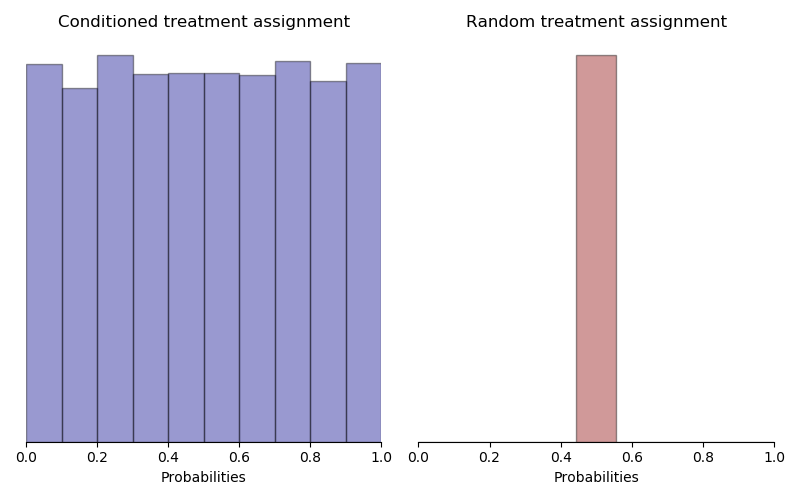
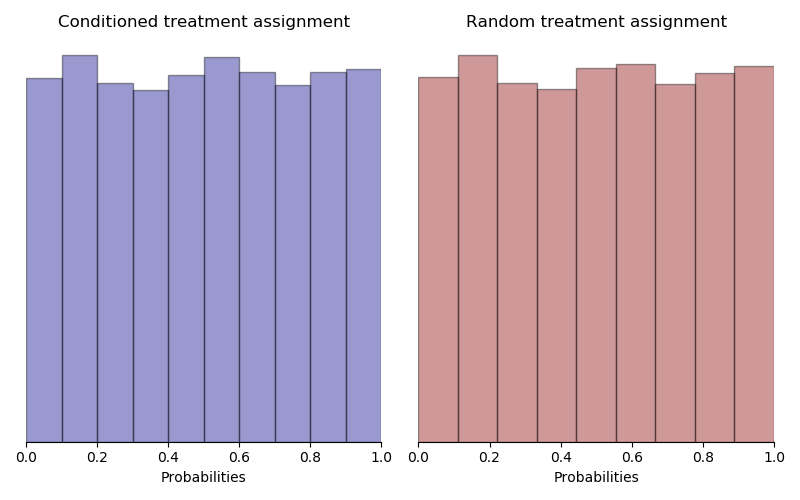
Adding get and set fct.s to UserInterface

diff --git a/src/SimulateData.py b/src/SimulateData.py
@@ -26,7 +26,12 @@ class SimData:
         self.N = N # Natural, number of observations
         self.k = k # Natural, number of covariates
         
-
+        # initilizing weight vector for treatment assignment 
+        # using random weights from U[0,1]
+        self.weights_treatment_assignment = np.random.uniform(0,1,self.k)
+        # doing the same for relation of X and y
+        self.weights_covariates_to_outputs = np.random.uniform(0,1,self.k)
+        
     def generate_outcome_variable(self, binary):
         """
         Model-wise Y
@@ -101,12 +106,10 @@ class SimData:
         self.X = X
 
         if nonlinear:
-#            b = 1/np.arange(1,self.k+1) # diminishing weight vector
-            b = np.random.uniform(0,1,self.k) # random weight vector drawn from U[0,1]
-            self.g_0_X = np.cos(np.dot(X,b))**2  # overwrite with nonlinear covariates
+            # transforming by cos(X*weights)²
+            self.g_0_X = np.cos(np.dot(X,self.weights_covariates_to_outputs))**2  
         else:
             # If not nonlinear, then g_0(X) is just the identity 
-            
             self.g_0_X = np.dot(X,np.repeat(1/self.k,self.k))  # dim(X) = n * k -> need to vector multiply with vector shaped [k,1]
 
         return None
@@ -120,35 +123,31 @@ class SimData:
         –random (randomized control trial) with possible imbalanced assignment (e.g.  75% treatedand 25% control.
 
         :return:
-        """
-
-        #weight_vector = 1/np.arange(1,self.k+1)             # diminishing weights
-        weight_vector_alt = np.random.uniform(0,1,self.k)   # random weights from U[0,1]
-        
+        """       
         # random treatment assignment
         if random:
             m_0 = assignment_prob  # probability
             
             # propensity scores for each observation 
-            self.propensity_score = np.repeat(m_0,self.N)
+            self.propensity_scores = np.repeat(m_0,self.N)
         else:
-            a = np.dot(self.X, weight_vector_alt)    # X*weights -> a (Nx1 vector)
+            a = np.dot(self.X, self.weights_treatment_assignment)    # X*weights -> a (Nx1 vector)
 
             # Using empirical mean, sd
             a_mean = np.mean(a)
             a_sigma = np.std(a)
             z = (a - a_mean) / a_sigma          # normalizing 'a' vector
-            
+
             # using normalized vector z to get probabilities from normal pdf
             # to later assign treatment with binomial in D
             m_0 = stats.norm.cdf(z)
             
             # propensity scores for each observation 
-            self.propensity_score = m_0
+            self.propensity_scores = m_0
 
         # creating array out of binomial distribution that assigns treatment according to probability m_0
         self.D = np.random.binomial(1, m_0, self.N)
-        self.weight_vector = weight_vector_alt
+
         
         return None
 
@@ -259,6 +258,8 @@ class SimData:
             # from options 1-4
             n_idx = np.random.choice(options, self.N, True)
             
+            
+            
         # array to fill up with theta values         
         theta_combined = np.zeros(self.N)
         
@@ -293,8 +294,8 @@ class SimData:
             X_option2 = self.X[:,(r_idx == 3) | (r_idx == 4)].copy()
             
             w = np.random.normal(0,0.25,self.N)
-            # Need to adjust weight_vector such that it complies with the alternated k (dimension)
-            weight_vector_adj = self.weight_vector[(r_idx == 3) | (r_idx == 4)]
+            # Need to adjust weights dimension such that it complies with the alternated k 
+            weight_vector_adj = self.weights_treatment_assignment[(r_idx == 3) | (r_idx == 4)]
             
             gamma = np.sin(np.dot(X_option2, weight_vector_adj)) + w  # one gamma for each observation in n
 
@@ -313,6 +314,8 @@ class SimData:
         if no_treatment:
             theta_combined[n_idx == 5] = 0 # not really necessary since vector was full of 0 
         
+        
+        self.treatment_effect_type = n_idx
         self.treatment_effect = theta_combined
 
         return None
@@ -359,6 +362,7 @@ class SimData:
     
     def get_treatment_effect(self):
         return self.treatment_effect
+    
 #    def visualize_distribution(self, y, treatment):
 #        """
 #        input: outcome variable y_treated, y_not_treated, treatment
@@ -391,6 +395,7 @@ class SimData:
 ##### New class that includes SimData class by initizilaizing it internally and 
 ##### only displays a few simple functions to user
 
+
 class UserInterface:
     '''
     Class to wrap up all functionalities and give user just the functions that are 
@@ -405,8 +410,8 @@ class UserInterface:
         Generates Nxk matrix "X" with values for each covariate for all observations and saves 
         it in object s
         '''
-        self.s = SimData(N, k, seed)
-        self.s.generate_covariates()
+        self.backend = SimData(N, k, seed)
+        self.backend.generate_covariates()
         
     def generate_treatment(self, random_assignment = True, assignment_prob = 0.5, constant_pos = True, constant_neg = False,
                            heterogeneous_pos = False, heterogeneous_neg = False, no_treatment = False, treatment_option_weights = None,
@@ -433,8 +438,8 @@ class UserInterface:
         
         return: None
         '''
-        self.s.generate_treatment_assignment(random_assignment, assignment_prob)
-        self.s.generate_treatment_effect(treatment_option_weights, constant_pos, constant_neg,
+        self.backend.generate_treatment_assignment(random_assignment, assignment_prob)
+        self.backend.generate_treatment_effect(treatment_option_weights, constant_pos, constant_neg,
                                   heterogeneous_pos, heterogeneous_neg, no_treatment, intensity)
 
         return None
@@ -448,22 +453,44 @@ class UserInterface:
         
         return: y, X, treatment_effect
          '''                
-        return self.s.generate_outcome_variable(binary)
+        return self.backend.generate_outcome_variable(binary)
     
     def plot_covariates_correlation(self):
         '''
         Shows a correlation heatmap of the covariates 
         '''
-        self.s.visualize_correlation()
+        self.backend.visualize_correlation()
         return None
+    
+    def get_propensity_scores(self):
+        return self.backend.propensity_scores
+    
+    def get_weights_treatment_assignment(self):
+        return self.backend.weights_treatment_assignment
+    
+    def get_weigths_covariates_to_outputs(self):
+        return self.backend.weights_covariates_to_outputs
+    
+    def get_treatment_effect_type(self):
+        return self.backend.treatment_effect_type
+    
+    def set_weights_treatment_assignment(self, new_weight_vector):
+        if len(new_weight_vector) is not self.backend.get_k():
+            raise ValueError('New weight vector needs to be of dimension k')
+            
+        self.backend.weights_treatment_assignment = np.array(new_weight_vector)
+            
+    def set_weights_covariates_to_outputs(self, new_weight_vector):
+        if len(new_weight_vector) is not self.backend.get_k():
+            raise ValueError('New weight vector needs to be of dimension k')
+        
+        self.backend.weights_covariates_to_outputs= np.array(new_weight_vector)
+        
 
-#    def plot_distribution(self, y, treatment):
-#        """
-#
-#        :return:
-#        """
-#
-#        self.s.visualize_distribution(y, treatment)
+    def __str__(self):
+        return "N = " + str(self.backend.get_N()) + ", k = " + str(self.backend.get_k())
+
+
 
 # Of the following goals, discrete heterogeneity is still missing
 # – No treatment effect (for all or for some people).

diff --git a/src/plot_creation.py b/src/plot_creation.py
@@ -13,8 +13,6 @@ Correlation Matrix
 if specified use get function for g_0(x), D
 
 """
-
-
 #### New heterogeneous effect
 u = UserInterface(100000,10, seed=5)
 u.generate_treatment(random_assignment=True, treatment_option_weights = [0, 0, 1, 0, 0], intensity=10)
@@ -37,7 +35,7 @@ y, X, assignment, treatment = u.output_data()
 single_treatment_effect_plt(treatment,assignment,'mix')
 
 
-#    
+    
 ###### propensity score plot
 #u = UserInterface(10000,10, seed=5)
 #u.generate_treatment(random_assignment=False, treatment_option_weights = [1, 0, 0, 0])
@@ -53,8 +51,8 @@ single_treatment_effect_plt(treatment,assignment,'mix')
 #prop_score_random = u.s.propensity_score#[assignment==1]
 #
 #figure = propensity_score_plt(prop_score_conditioned, prop_score_random)
-#
-#
+
+
 ###### treatment effects plots
 #
 ### Each option alone 

diff --git a/src/main.py b/src/main.py
@@ -1,7 +1,4 @@
-
 from SimulateData import UserInterface
-
-
 
 
 """
@@ -15,28 +12,15 @@ if specified use get function for g_0(x), D
 
 """
 
-
 if __name__ == "__main__":
     
     ##### propensity score plot
-    u = UserInterface(10000,10, seed=5)
-    u.generate_treatment(random_assignment=True,constant_pos=False, heterogeneous_pos=False, heterogeneous_neg=True, treatment_option_weights = None)
+    u = UserInterface(100000,10, seed=5)
+    u.generate_treatment(random_assignment=False,constant_pos=False, heterogeneous_pos=False, heterogeneous_neg=True, treatment_option_weights = None)
     y, X, assignment, treatment = u.output_data()
+    
 
 
-
-
-
-#import matplotlib.pyplot as plt
-#
-#fig = plt.figure()
-#
-#plt.hist(u.s.theta_option2, bins = 100)
-#
-#
-#fig = plt.figure()
-#
-#plt.hist(u.s.gamma, bins=100)
 
 
 
